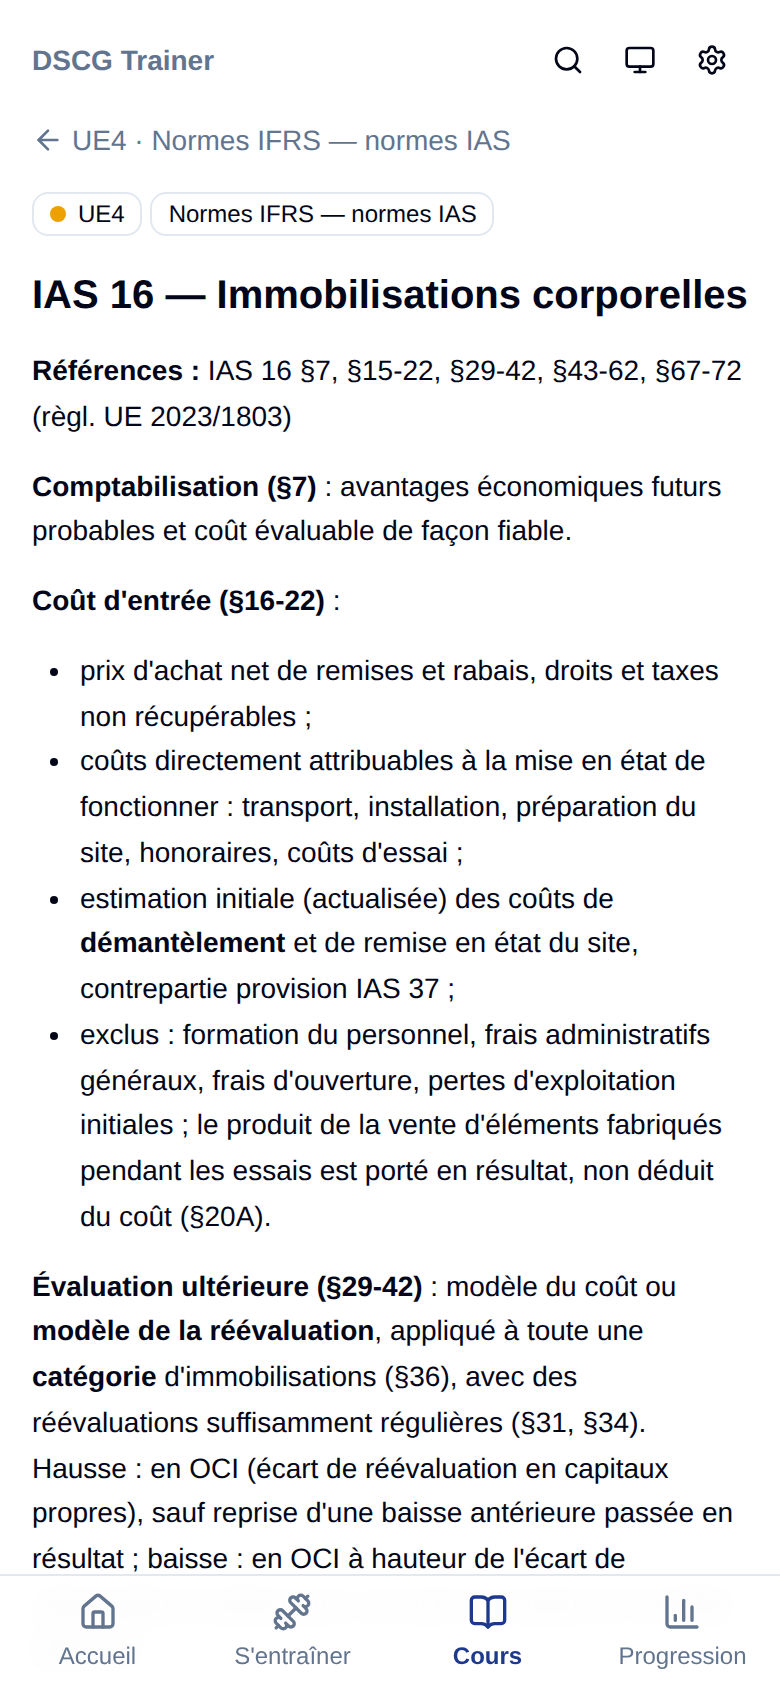
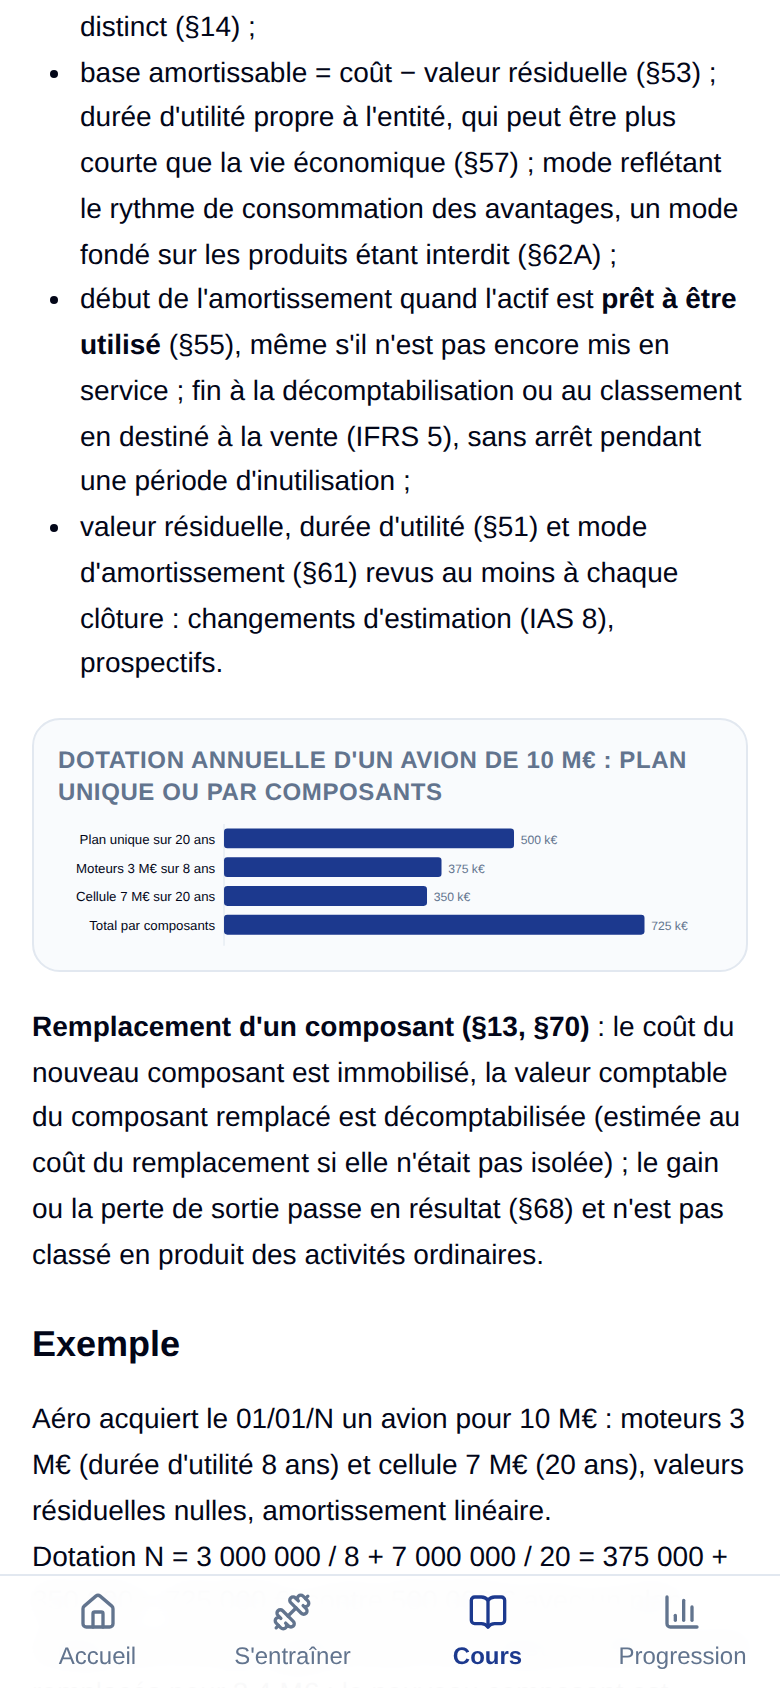
docs: version 1.2.0 — fiches enrichies et visuels (CHANGELOG, README, captures, CLAUDE.md, PROGRESS.md phase 6)
Claude-Session: https://claude.ai/code/session_014PfY4VL2VJZjKTiJyAyMUK

Changed region(s): [[0.0308, 0.0, 0.9538, 0.955]]

diff --git a/PROGRESS.md b/PROGRESS.md
@@ -1,6 +1,6 @@
 # PROGRESS — DSCG Trainer
 
-Dernière mise à jour : 2026-10-04, fin de la session phase 7 (interface, version 1.1.0). Phases 6 (cours enrichis) et 8 (exercices complémentaires) à venir, voir `docs/audit-v1.md`.
+Dernière mise à jour : 2026-10-04, fin de la session phase 6 (cours enrichis et visuels, version 1.2.0). Phase 8 (exercices complémentaires) à venir, voir `docs/audit-v1.md`.
 
 ## État par phase
 
@@ -13,8 +13,8 @@ Dernière mise à jour : 2026-10-04, fin de la session phase 7 (interface, versi
 | 4. Progression | Terminée (voir ci-dessous) |
 | 5. Finitions | Terminée : version 1.0.0 (voir ci-dessous) |
 | 7. Interface (audit v1) | Terminée : version 1.1.0 (voir ci-dessous) |
-| 6. Cours enrichis et visuels | À faire (phase suivante) |
-| 8. Exercices complémentaires | À faire |
+| 6. Cours enrichis et visuels | Terminée : version 1.2.0 (voir ci-dessous) |
+| 8. Exercices complémentaires | À faire (phase suivante) |
 
 ## Phase 0 : ce qui est fait
 
@@ -119,6 +119,15 @@ L'audit `docs/audit-v1.md` (4 octobre 2026) a fixé trois phases hors SPEC, vali
 - **Accueil, progression, réglages** : objectif quotidien (anneau), activité des huit dernières semaines (deux graphiques, une mesure chacun), réussite par type d'exercice, historique filtrable ; `/reglages` (objectif, tailles de session, thème, export, import, remise à zéro, installation) ; bandeaux « nouvelle version » (service worker en mode prompt) et « installer ».
 - **Vérifications** : 190 tests verts ; smoke test Chromium (session rapide, flashcards, écriture, cours, fiche, progression, mode sombre, grand écran), aucune erreur console ; Lighthouse 95-96 en performance (90 sur la fiche de cours) et 100 en accessibilité, bonnes pratiques et SEO sur tous les écrans mesurés.
 
+## Phase 6 : ce qui est fait (cours enrichis et visuels)
+
+- **271 fiches réécrites** (22 à 30 lignes non vides, un bloc diagramme comptant pour une ligne) selon la structure fixée dans `docs/content-guide.md` : références, **Enjeu**, règles développées, formules, **## Exemple** (chiffré et résolu, recalculé avec node par le rédacteur puis par le relecteur), **## Erreurs fréquentes** (tirées des distracteurs des QCM de la notion), **## À retenir**, **Notions liées** (1 054 liens internes, tous vérifiés par le validateur et le relecteur). UE 6 en anglais avec ligne **Glossary** (20 fiches).
+- **172 diagrammes** (cinq formes de la phase 7), soit environ deux fiches sur trois ; chaque libellé, pourcentage ou date vérifié par le relecteur.
+- **Méthode** : 27 lots (plan dans le scratchpad de session : `p6/plan.json`, briefs rédacteur et relecteur, script `commit-lot.sh` qui vérifie la longueur, le validateur et commite/pousse le lot), rédacteur puis relecteur indépendant par lot, un commit par lot relu (28 commits de contenu). Deux limites d'usage de l'API ont interrompu 18 agents ; les lots ont été repris sur l'état de l'arbre de travail (fiches partielles listées dans `p6/status.md`).
+- **Corrections de fond apportées par les relecteurs** (droit à octobre 2026) : droits d'enregistrement des fusions (gratuité depuis la LF 2019, CGI art. 816 : fiche et deux exercices de `regime-fiscal-faveur-fusions.json` corrigés et relus) ; seuils d'exemption de consolidation 30 M€ / 60 M€ / 250 (D. 230-2, décret 2024-152) ; numérotation L. 821-x confirmée pour les articles les plus cités (L. 821-40, -41, -44 à -46, -49, -50, -53, -54, -56, -63, -67 à -69) ; IFRS 18 adoptée par l'UE (règl. 2026/338, exercices ouverts dès 2027) ; Omnibus I (directive 2026/470) et actes délégués ESRS (3 juillet 2026) et taxonomie (règl. 2026/73) ; omnibus IA (règl. 2026/1744 : haut risque reporté au 2 décembre 2027) ; Data Act (frais de migration supprimés au 12 janvier 2027) ; renumérotation des contrats à long terme (règl. ANC 2026-03, art. 523-x dès 2027) ; comptes du règl. ANC 2022-06 (1522 restructurations, 6673/7673 VMP, 6582 amendes, 121-5 méthodes de référence) ; procédure d'alerte (président du tribunal informé à partir de la phase 2) ; NIS 2 non encore transposée en France au 4 octobre 2026.
+- **Interface** : bouton « S'entraîner » et navigation rendus avec la fiche (plus de décalage de mise en page) ; Lighthouse fiche de cours 96 en performance (90 en phase 7), CLS 0,07 (0,16), 100 ailleurs ; aucune erreur console. Captures `fiche.png` (mobile, diagramme) et `fiche-desktop.png` (sombre) refaites.
+- **Vérifications** : `npm run lint`, `validate` (271/271 fiches, 172 diagrammes, 1 400 exercices vérifiés), `typecheck`, 190 tests, build : tout vert.
+
 ## Décisions prises (et pourquoi)
 
 1. **Programme de référence : arrêté du 4 août 2025** (BOESR n° 32 du 28/08/2025, NOR MENS2523324A). Il s'applique aux épreuves du DSCG à partir de la session 2027, celle que Max préparera ; il remplace l'arrêté du 13/02/2019.
@@ -172,6 +181,11 @@ L'audit `docs/audit-v1.md` (4 octobre 2026) a fixé trois phases hors SPEC, vali
 42. **(Phase 7) Reprise d'examen reconstruite depuis les tentatives** plutôt que par une sauvegarde parallèle : chaque réponse est déjà enregistrée au fil de l'eau ; un examen non terminé sur le même sujet (même URL, donc même graine) et de moins de 24 h est proposé à la reprise.
 43. **(Phase 7) Graphiques à une mesure** : deux petits graphiques (exercices, taux) plutôt qu'un graphique à deux axes ; une seule teinte par graphique ; valeurs lisibles dans la description SVG.
 
+44. **(Phase 6) Fiches de 22 à 30 lignes, structure fixe** (guide § « Fiche de cours ») : le plafond de 30 lignes du validateur est conservé pour que la fiche reste lisible sur téléphone ; le plancher passe de 10 à 22 pour garantir l'exemple et les erreurs fréquentes. Un bloc diagramme compte pour une ligne (sinon un diagramme de 8 lignes JSON interdisait tout développement).
+45. **(Phase 6) Diagrammes seulement quand la notion s'y prête** (environ deux fiches sur trois, 172) : pas de diagramme décoratif ; le relecteur vérifie chaque libellé. Les notions purement lexicales (UE 6 vocabulaire) ou purement textuelles n'en ont pas.
+46. **(Phase 6) Droit à jour à la date de la session, vérifié par recherche web** : quand un relecteur établit qu'une règle a changé (IFRS 18, Omnibus I, omnibus IA, décret 2024-152…), la fiche est mise à jour et les exercices de la notion sont contrôlés dans la foulée (grep sur les chiffres ou dates concernés) ; seuls deux exercices (fusions) ont dû être corrigés. Les numéros d'articles non confirmés restent cités sans numéro (décision 23), et la date du jour (« à ce jour ») est écrite quand un texte est en cours (NIS 2).
+47. **(Phase 6) Reprise des lots interrompus sur l'arbre de travail** plutôt que depuis zéro : le rédacteur de reprise relit et recalcule les fiches déjà écrites, puis termine le lot ; le relecteur repart toujours de zéro. Aucun commit avant relecture, même sur demande du hook de fin de tour.
+
 ## Points ouverts / à vérifier
 
 - **Déploiement** : résolu. GitHub Pages est activé (source : GitHub Actions) et chaque push sur `main` déploie automatiquement.
@@ -180,14 +194,15 @@ L'audit `docs/audit-v1.md` (4 octobre 2026) a fixé trois phases hors SPEC, vali
 - UE 1, 5 et 6 ont moins de 5 questions par notion à la cible V1 : on peut regrouper des notions en phase 3 si c'est trop fin.
 
 - **Points de fond** : ceux relevés en phases 2 et 3 ont été vérifiés et corrigés en phase 5 (voir « Phase 5 : ce qui est fait »). Les relecteurs n'ont pu lire la plupart des textes officiels qu'au travers de résumés de recherche (Légifrance, ANC et BOFiP bloqués par le proxy) : un contrôle humain sur les textes reste souhaitable, en priorité sur les règlements récents (ANC 2026-03, directive (UE) 2026/470) et sur le plan de comptes PCG 2025.
-- **Décalage de mise en page (CLS) de 0,07 sur toutes les pages** et 0,15 sur la fiche de cours (le bouton « S'entraîner » descend quand la fiche arrive) : performance Lighthouse 90 sur la fiche, 95-96 ailleurs. À regarder en phase 6 (charger la fiche avec la page, remonter le bouton) ; le 0,07 commun vient probablement du remplacement de l'écran « Chargement… » de Suspense.
+- **Décalage de mise en page (CLS) de 0,07 sur toutes les pages** : vient du remplacement de l'écran « Chargement… » de Suspense dans `<main>` ; sans effet sur les scores (95-96). Le 0,15 propre à la fiche de cours est corrigé en phase 6.
+- **Points à revoir quand les textes évolueront** : date de promulgation de la loi française transposant NIS 2 (`conformite-reglementaire-si`, « non promulguée à ce jour ») ; numéro recodifié de l'infraction de non-révélation des faits délictueux (ancien L. 820-7, cité sans numéro) ; compte 7673 (produits nets sur cessions de VMP) vu par symétrie avec 6673 sur une seule source ; l'exercice `theorie-portefeuille-medaf` utilise le compte parent 667 pour une cession de VMP (accepté : 667 reste le compte de rattachement de 6673).
+- **Release GitHub** : les tags ne peuvent pas être poussés depuis l'environnement (passerelle limitée aux branches). Créer les releases v1.0.0, v1.1.0 et v1.2.0 depuis l'interface GitHub (commits de fusion des PR #8, #9 et de la PR de la phase 6).
 
-## Prochaine étape : phase 6 (cours enrichis et visuels)
+## Prochaine étape : phase 8 (exercices complémentaires)
 
-- Voir `docs/audit-v1.md` § 1 et § 6. Fiches à 25-30 lignes avec une structure fixe : enjeu, règles, **exemple chiffré résolu**, **erreurs fréquentes à l'examen** (tirées des distracteurs des QCM de la notion), « À retenir », **notions liées** (liens `[titre](/cours/id)`), références ; glossaire anglais → français dans les fiches UE 6.
-- Visuels : blocs ```` ```diagram ```` (formes et schéma dans `src/content/diagram.ts` et `diagramSchema.ts`, exemples dans `src/components/Markdown.test.tsx`) sur les notions qui s'y prêtent, environ 120 ; `npm run validate` les vérifie.
-- Méthode : 25 lots (mêmes découpages qu'en phases 2 et 3), rédacteur puis relecteur indépendant par lot, commit par lot ; le relecteur vérifie aussi que chaque lien interne pointe vers la bonne notion et que chaque diagramme est juste. Mettre à jour `docs/content-guide.md` (structure des fiches, diagrammes, liens) avant de lancer les rédacteurs.
-- Puis phase 8 : environ 150 exercices sur les notions à 3-4 exercices (UE 1, 5, 6).
+- Voir `docs/audit-v1.md` § 3. Environ 150 exercices sur les notions qui n'en ont que 3 ou 4 (UE 1, 5 et 6 ; `npm run validate` affiche les comptes par notion, `exerciseCount()` côté app) pour que chaque notion atteigne au moins 5 à 6 exercices et que les sessions par notion aient du sens.
+- Méthode inchangée : lots par thème (une dizaine), rédacteur puis relecteur indépendant qui recalcule chaque réponse, `verified: true` seulement après relecture, un commit par lot ; répartition des types et difficultés de `CLAUDE.md`, règles de `docs/content-guide.md` (les fiches enrichies servent désormais de base : s'appuyer sur leurs exemples et erreurs fréquentes sans les recopier). Ids nouveaux à la suite des numéros existants.
+- Fin de phase : `validate:strict`, lint, tests, build, CHANGELOG 1.3.0, README (nombre d'exercices), PROGRESS.md, PR, CI, fusion.
 
 ## Budget consommé (estimation)
 
@@ -198,4 +213,5 @@ L'audit `docs/audit-v1.md` (4 octobre 2026) a fixé trois phases hors SPEC, vali
 - Phase 4 : environ 15 à 20 $ (cible SPEC : 25 $). Aucun sous-agent : travail direct (moteur, écrans, tests, smoke test).
 - Phase 5 : environ 20 à 30 $ (cible SPEC : 15 $, dépassement accepté pour finir proprement). 5 sous-agents (vérification des points ouverts et relecture, harmonisation des comptes ANC 2022-06 et relecture), le reste en travail direct (code, Lighthouse, captures).
 - Phase 7 : environ 35 à 45 $ (estimation de l'audit : 40 à 60 $). Aucun sous-agent : travail direct.
-- Cumul estimé : environ 260 à 330 $. L'utilisateur a accepté de dépasser le budget initial de 250 $ pour les phases 6 à 8 (audit : 155 à 215 $ pour les trois).
+- Phase 6 : environ 110 à 140 $ (estimation de l'audit : 80 à 110 $). Environ 72 sous-agents (27 rédactions, 27 relectures, 18 relances après deux limites d'usage), de 90 000 à 140 000 tokens chacun ; le dépassement vient des relances et des recherches web des relecteurs (droit 2026). Le reste en travail direct (plan, briefs, commits, Lighthouse, captures).
+- Cumul estimé : environ 370 à 470 $. L'utilisateur a accepté de dépasser le budget initial de 250 $ pour les phases 6 à 8 (audit : 155 à 215 $ pour les trois ; reste la phase 8, estimée 35 à 45 $).

diff --git a/README.md b/README.md
@@ -2,11 +2,11 @@
 
 Application web installable (PWA) pour s'entraîner au DSCG : audit, comptabilité, IFRS, consolidation, finance, droit, fiscalité, contrôle de gestion, systèmes d'information et anglais des affaires. Elle fonctionne hors ligne sur téléphone et ordinateur ; la progression reste dans le navigateur.
 
-**Site :** https://maxprot18.github.io/dscg-trainer/ · version 1.1.0 ([journal des versions](CHANGELOG.md))
+**Site :** https://maxprot18.github.io/dscg-trainer/ · version 1.2.0 ([journal des versions](CHANGELOG.md))
 
 <p>
   <img src="docs/screenshots/accueil.png" alt="Accueil : objectif du jour, série et contenu disponible" width="200">
-  <img src="docs/screenshots/exercice.png" alt="Écriture comptable : saisie avec libellés des comptes et bouton Équilibrer" width="200">
+  <img src="docs/screenshots/fiche.png" alt="Fiche de cours IAS 16 : règles, diagramme en barres et exemple résolu" width="200">
   <img src="docs/screenshots/bilan.png" alt="Bilan de session : notions à revoir et exercices" width="200">
   <img src="docs/screenshots/progression-sombre.png" alt="Progression en mode sombre" width="200">
 </p>
@@ -15,7 +15,7 @@ Application web installable (PWA) pour s'entraîner au DSCG : audit, comptabilit
 
 - **1 400 exercices**, tous relus de façon indépendante : UE 1 (200), UE 2 (250), UE 3 (100), UE 4 (700), UE 5 (80), UE 6 (70, en anglais).
 - **8 types** : QCM, vrai / faux, calcul, écriture comptable corrigée compte par compte, cas pratique, cas de consolidation guidé, cas d'audit, flashcard.
-- **271 fiches de cours**, une par notion du programme officiel (arrêté du 4 août 2025), avec les références (articles, paragraphes de normes, comptes PCG) et les formules clés.
+- **271 fiches de cours**, une par notion du programme officiel (arrêté du 4 août 2025), toutes relues de façon indépendante : références (articles, paragraphes de normes, comptes PCG), règles, formules clés, **exemple chiffré résolu**, **erreurs fréquentes à l'examen**, « À retenir », notions liées ; **172 diagrammes** (frises, arbres de décision, organigrammes, flux, barres) ; glossaire anglais → français en UE 6.
 
 ## Fonctionnalités
 
@@ -27,11 +27,11 @@ Application web installable (PWA) pour s'entraîner au DSCG : audit, comptabilit
 <p>
   <img src="docs/screenshots/entrainement.png" alt="Écran S'entraîner : session rapide, révision intelligente, erreurs, examen blanc, flashcards" width="200">
   <img src="docs/screenshots/cours-ue.png" alt="Cours d'une UE : thèmes, notions avec niveau de maîtrise" width="200">
-  <img src="docs/screenshots/flashcards.png" alt="Mode flashcards" width="200">
+  <img src="docs/screenshots/exercice.png" alt="Écriture comptable : saisie avec libellés des comptes et bouton Équilibrer" width="200">
   <img src="docs/screenshots/progression.png" alt="Progression : objectif, chiffres clés et activité hebdomadaire" width="200">
 </p>
 
-<img src="docs/screenshots/fiche-desktop.png" alt="Fiche de cours sur grand écran, avec sommaire et notions du thème" width="820">
+<img src="docs/screenshots/fiche-desktop.png" alt="Fiche de cours sur grand écran en mode sombre, avec sommaire et notions du thème" width="820">
 
 ## Installer sur le téléphone
 

diff --git a/CLAUDE.md b/CLAUDE.md
@@ -31,7 +31,7 @@ PWA d'entraînement au DSCG (React 18 + TypeScript + Vite, Tailwind + shadcn/ui,
 
 - `content/taxonomy.json` : arbre UE > thème > notion (programme officiel + périmètre SPEC). Les ids de notion sont uniques dans tout le fichier et **ne doivent jamais être renommés** une fois utilisés (la progression y est rattachée).
 - `content/<slug-ue>/<theme>/<notion>.json` : `{ "exercises": [...] }`. Un fichier par notion de préférence (un fichier par thème est aussi accepté). Le script vérifie que le fichier est sous le dossier de son UE et que `ue`/`theme`/`notion` existent.
-- `content/courses/<id-notion>.md` : fiche de cours d'une notion (10 à 30 lignes, renvoi à la norme ou l'article) ; liens internes `[titre](/cours/<id-notion>)` et blocs ```diagram (JSON validé par `npm run validate`).
+- `content/courses/<id-notion>.md` : fiche de cours d'une notion (22 à 30 lignes non vides, structure fixe du guide : enjeu, règles, exemple résolu, erreurs fréquentes, à retenir, notions liées, références) ; liens internes `[titre](/cours/<id-notion>)` et blocs ```diagram (JSON validé par `npm run validate`).
 - `docs/content-guide.md` : règles de rédaction et de relecture du contenu (format des fiches, règles par type d'exercice, tolérances, conventions de comptes, renvoi aux options par numéro, règles ANC 2020-01). **À lire avant toute production de contenu** ; la méthode par lots planifiés + relecteur indépendant est décrite dans `PROGRESS.md` (phase 2).
 - `src/content/load.ts` : taxonomie embarquée, exercices chargés UE par UE (`src/content/bundles/ue*.ts`, un fichier JS par UE), fiches chargées à la demande.
 - `src/content/schema.ts` : schémas Zod des 8 types (`mcq`, `true_false`, `numeric`, `journal_entry`, `case_study`, `consolidation_case`, `audit_case`, `flashcard`) et de la taxonomie. Source de vérité du format : la lire avant d'écrire du contenu.

diff --git a/CHANGELOG.md b/CHANGELOG.md
@@ -1,5 +1,14 @@
 # Journal des versions
 
+## 1.2.0 (octobre 2026)
+
+Cours enrichis et visuels, deuxième phase issue de l'audit de la version 1.0 (`docs/audit-v1.md`).
+
+- **271 fiches de cours réécrites** (22 à 30 lignes chacune), toutes relues de façon indépendante, avec une structure fixe : enjeu, règles développées, **exemple chiffré résolu**, **erreurs fréquentes à l'examen** (tirées des distracteurs des QCM de la notion), « À retenir », **notions liées** (1 054 liens entre fiches) ; glossaire anglais → français dans les 20 fiches de l'UE 6.
+- **172 diagrammes** (frises, arbres de décision, organigrammes, flux, barres) dans les fiches qui s'y prêtent.
+- Droit et normes mis à jour à octobre 2026 pendant la relecture : seuils d'exemption de consolidation (décret 2024-152), numérotation L. 821-x du Code de commerce (ordonnance 2023-1142), IFRS 18 adoptée par l'UE (règl. 2026/338), directive Omnibus I (2026/470), règlement omnibus IA (2026/1744), comptes du règl. ANC 2022-06 ; deux exercices sur les droits d'enregistrement des fusions corrigés (gratuité depuis 2019, CGI art. 816).
+- Fiche de cours : bouton « S'entraîner » et navigation affichés avec la fiche, plus de décalage de mise en page à l'arrivée du texte.
+
 ## 1.1.0 (octobre 2026)
 
 Interface et parcours, à la suite de l'audit de la version 1.0 (`docs/audit-v1.md`).
